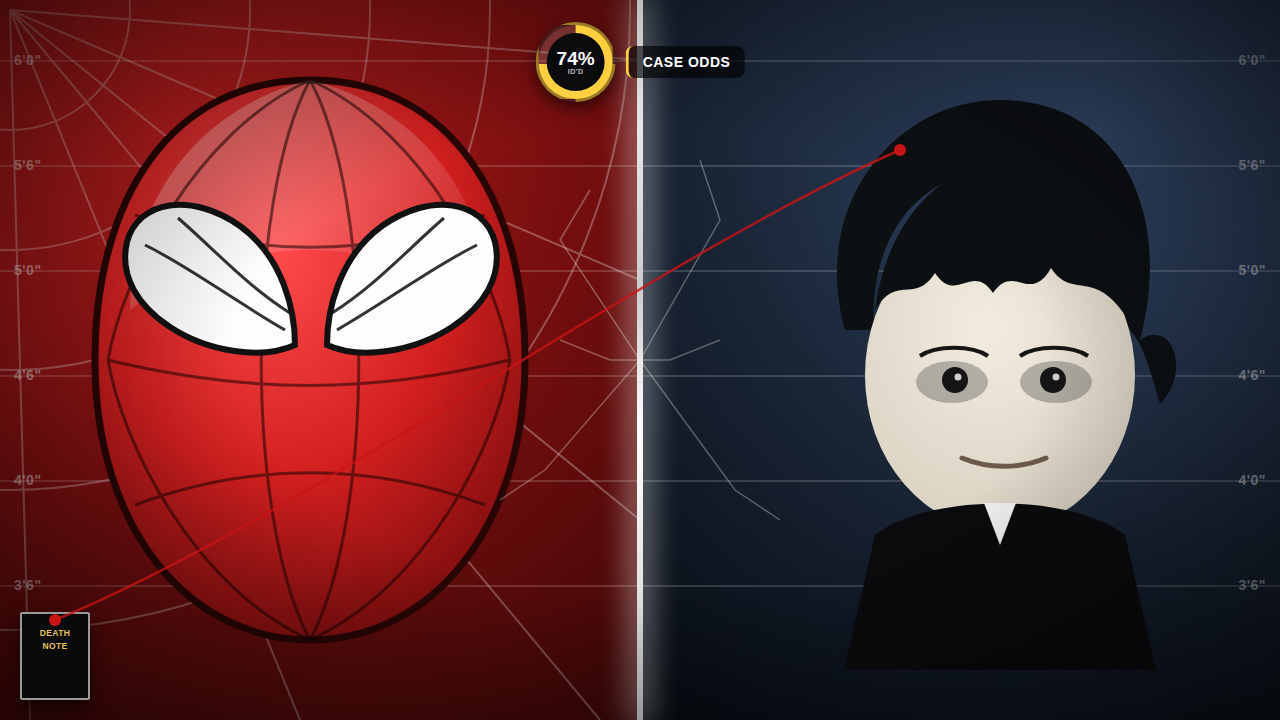
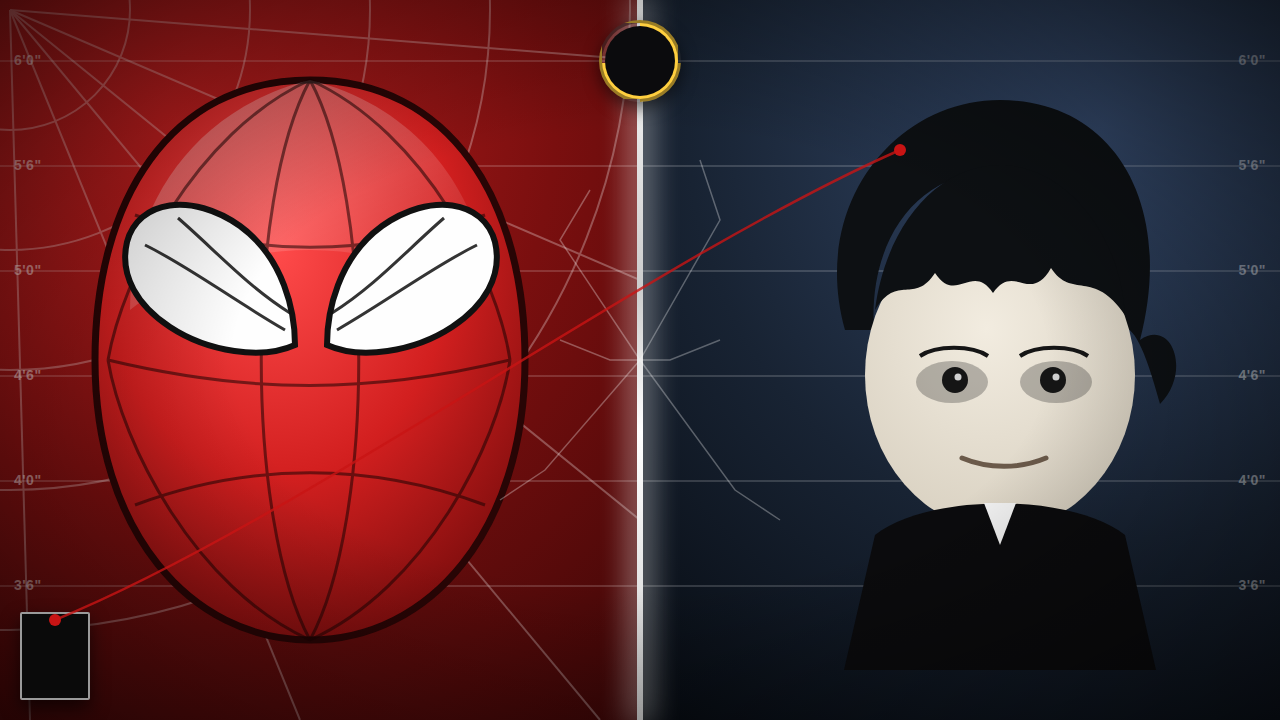
Make v2 thumbnail text-free per reference channel convention

Changed region(s): [[0.4062, 0.0306, 0.5938, 0.1528], [0.0312, 0.8556, 0.0625, 0.9167]]

diff --git a/assets/thumbnails/could-l-catch-spiderman-thumb-v2.html b/assets/thumbnails/could-l-catch-spiderman-thumb-v2.html
@@ -45,33 +45,15 @@
     width:66px; height:84px; background:#0a0a0a; border:2px solid #9a9a9a;
     border-radius:2px; box-shadow:0 8px 18px rgba(0,0,0,0.6);
   }
-  .icon:before{
-    content:"DEATH\A NOTE"; white-space:pre; position:absolute; top:13px; left:0; right:0;
-    text-align:center; color:#e6c15a; font-size:8.5px; font-weight:800; letter-spacing:0.4px; line-height:1.5;
-  }
-
-  .stat{
-    position:absolute; top:22px; left:50%; transform:translateX(-50%); z-index:12;
-    display:flex; align-items:center; gap:10px;
-  }
   .stat-ring{
-    width:74px; height:74px; border-radius:50%;
+    position:absolute; top:20px; left:50%; transform:translateX(-50%); z-index:12;
+    width:76px; height:76px; border-radius:50%;
     background:conic-gradient(#ffcf3f 0% 74%, rgba(255,255,255,0.15) 74% 100%);
-    display:flex; align-items:center; justify-content:center;
     box-shadow:0 6px 16px rgba(0,0,0,0.55);
     border:3px solid rgba(0,0,0,0.4);
   }
   .stat-ring-inner{
-    width:58px; height:58px; border-radius:50%; background:#0b0b0d;
-    display:flex; flex-direction:column; align-items:center; justify-content:center;
-    color:#fff; font-weight:800;
-  }
-  .stat-ring-inner span:first-child{ font-size:19px; line-height:1; }
-  .stat-ring-inner span:last-child{ font-size:7px; letter-spacing:0.5px; opacity:0.7; }
-  .stat-caption{
-    background:rgba(0,0,0,0.65); color:#fff; font-weight:800; font-size:14px;
-    padding:8px 14px; border-radius:8px; letter-spacing:0.5px; text-transform:uppercase;
-    border-left:3px solid #ffcf3f;
+    position:absolute; inset:3px; border-radius:50%; background:#0b0b0d;
   }
 
   .thread{ position:absolute; inset:0; z-index:11; pointer-events:none; }
@@ -218,12 +200,7 @@
     </g>
   </svg>
 
-  <div class="stat">
-    <div class="stat-ring">
-      <div class="stat-ring-inner"><span>74%</span><span>ID'D</span></div>
-    </div>
-    <div class="stat-caption">Case Odds</div>
-  </div>
+  <div class="stat-ring"><div class="stat-ring-inner"></div></div>
 
   <div class="vignette"></div>
   <div class="seam"></div>
